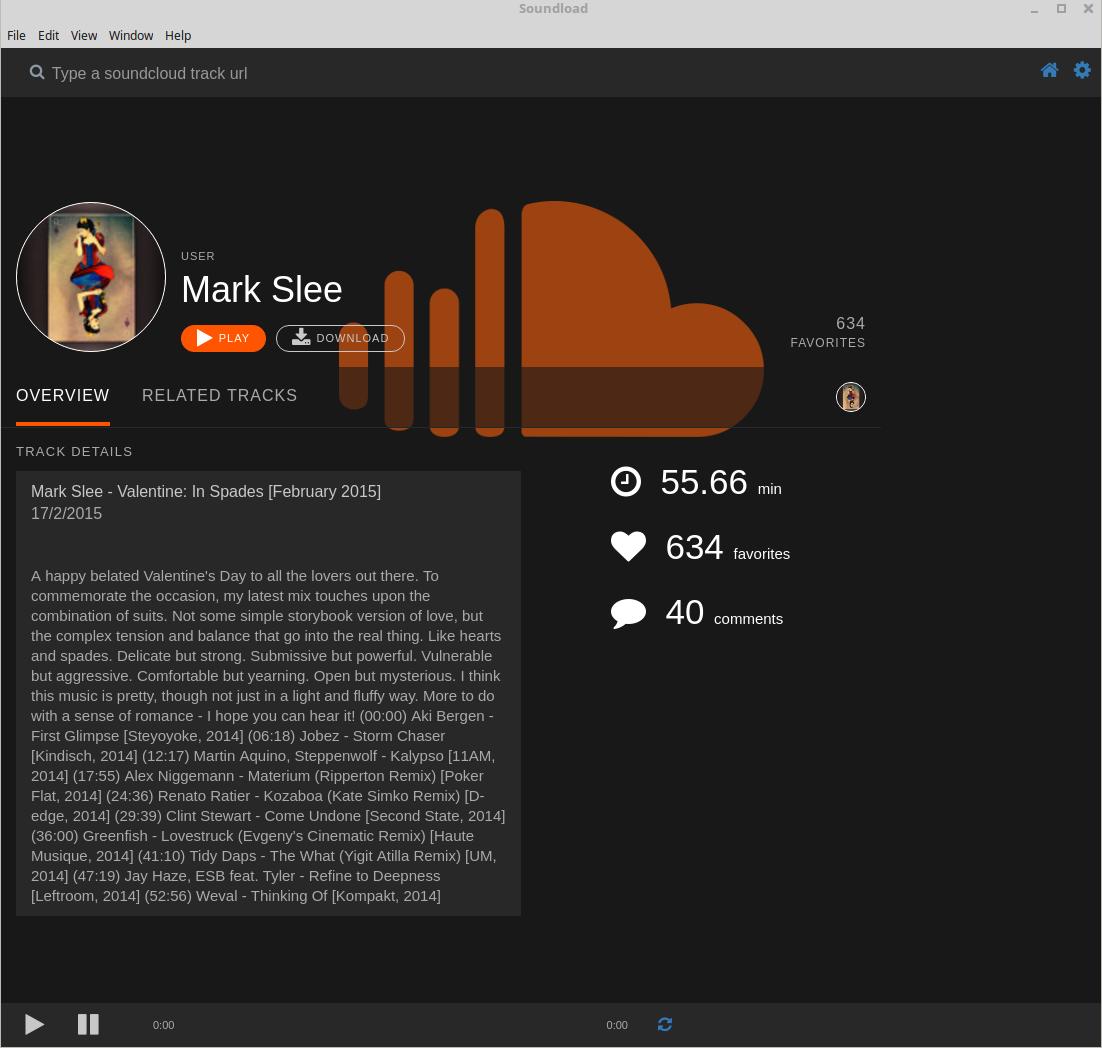
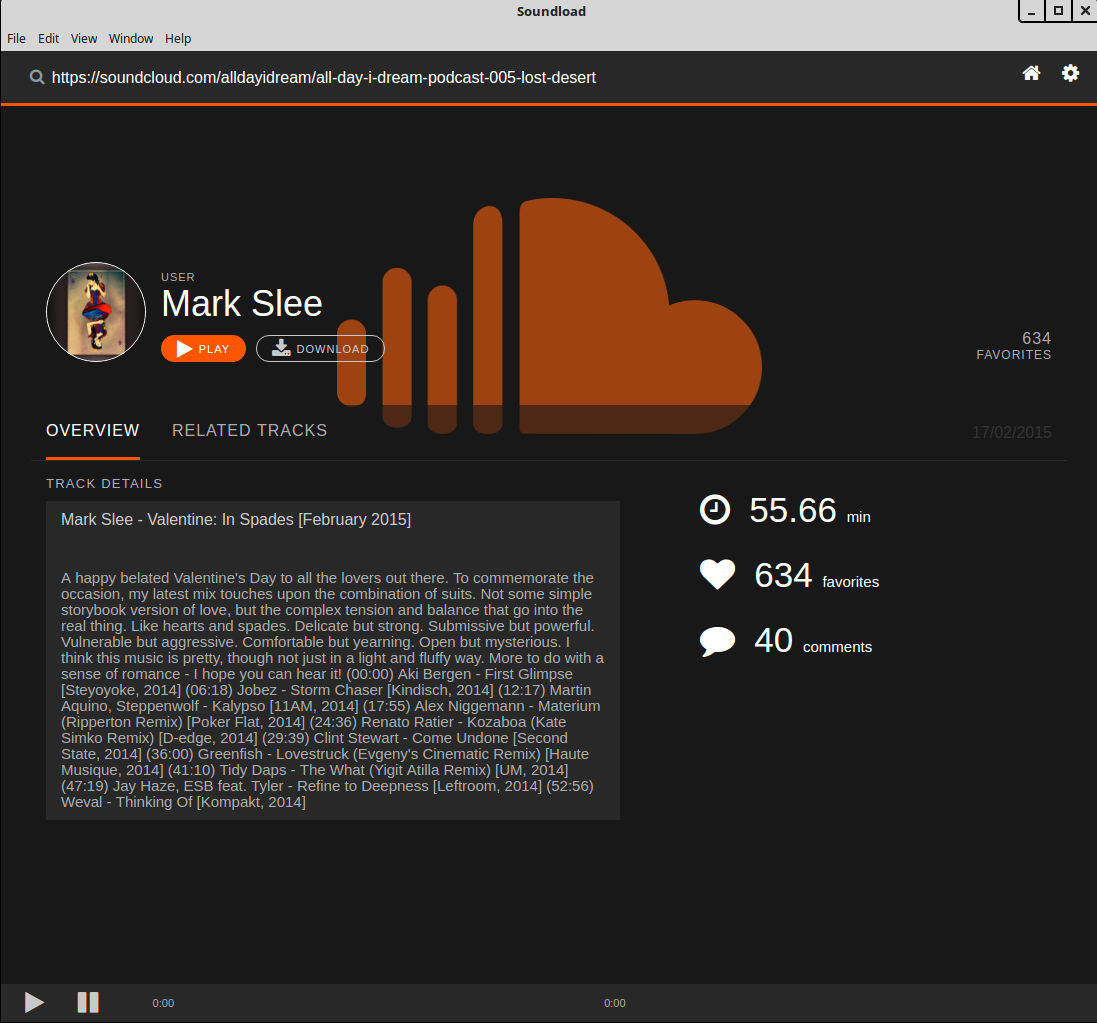
remove AppProgress from App move to Track - finalize, AppPlayer css fixes

diff --git a/renderer-process/components/content/Track.js b/renderer-process/components/content/Track.js
@@ -4,7 +4,7 @@
 
 'use strict';
 
-import {remote, ipcRenderer, clipboard} from 'electron';
+import {remote, ipcRenderer} from 'electron';
 import React from 'react';
 import AppProgress from '../common/AppProgress';
 import Related from './Related';
@@ -12,18 +12,16 @@ import Related from './Related';
 export default class Track extends React.Component {
   constructor(props) {
     super(props);
+
+    this.state = {
+      percentage: 0,
+      show_loader: false
+    }
+
+    //bind methods
     this.parseDate = this.parseDate.bind(this);
     this.parseDuration = this.parseDuration.bind(this);
     this.download = this.download.bind(this);
-    ipcRenderer.on('download-file-error', function(event, error_message) {
-      console.error(error_message);
-    });
-    ipcRenderer.on('download-file-reply', function(event, tags) {
-      console.error(tags);
-    });
-    ipcRenderer.on('progress-file-reply', (event, percentage) => {
-      console.log(percentage);
-    });
   }
   componentDidMount() {}
   componentWillUnmount() {
@@ -37,13 +35,13 @@ export default class Track extends React.Component {
     ipcRenderer.send('download-file', title, id);
     return false;
   }
-  parseDate(per) {
+  parseDate() {
     let moment = require('moment');
     let track = this.props.track,
       created_at;
 
     created_at = track.created_at;
-    return moment(created_at).format(per.toUpperCase());
+    return moment(created_at).format('DD/MM/YYYY');
   }
   parseDuration() {
     let duration = this.props.track.duration / 1000; //get seconds
@@ -65,6 +63,9 @@ export default class Track extends React.Component {
     return (
       <div className="track page-content">
         <div className="track__header">
+          <div className="track__progress">
+            <AppProgress isVisible={this.state.show_loader}/>
+          </div>
           <div className="track__info">
             <div className="profile__img">
               <img src={track.artwork_url} alt={track.title}/>
@@ -77,7 +78,7 @@ export default class Track extends React.Component {
                   <i className="fa fa-play"></i>
                   Play
                 </button>
-                <button className="button-light" data-title={track.title} onClick={this.download}>
+                <button className="button-light" data-id={track.id} data-title={track.title} onClick={this.download}>
                   <i className="fa fa-download"></i>
                   Download
                 </button>
@@ -98,8 +99,7 @@ export default class Track extends React.Component {
               </li>
             </ul>
             <div className="track__navigation__friends">
-              <a href="#">
-                <img src={track.artwork_url} alt={track.title}/></a>
+              {this.parseDate()}
             </div>
           </div>
         </div>
@@ -112,11 +112,7 @@ export default class Track extends React.Component {
                   <div className="track-details">
                     <div className="track-details__song">
                       <div className="track-details__song__title">{track.title}</div>
-                      <div className="track-details__song__date">
-                        <span className="day">{this.parseDate('d')}/</span>
-                        <span className="month">{this.parseDate('m')}/</span>
-                        <span className="year">{this.parseDate('yyyy')}</span>
-                      </div>
+                      <div className="track-details__song__date"></div>
                       <hr/>
                       <div className="track-details__song__desc">{track.description}</div>
                     </div>

diff --git a/renderer-process/components/common/AppProgress.js b/renderer-process/components/common/AppProgress.js
@@ -1,18 +1,55 @@
+import {remote, ipcRenderer} from 'electron';
 import React from 'react';
 
 export default class AppProgress extends React.Component {
   constructor(props) {
     super(props);
+    this.state = {
+      is_visible: false,
+      percentage: 0
+    }
   }
-  render() {    
+  componentDidMount() {
+    //ipc events
+    ipcRenderer.on('download-file-error', (event, error_message) => {
+      console.error(error_message);
+    });
+    ipcRenderer.on('download-file-reply', (event) => {
+      setTimeout(()=>{
+        this.setState({
+          is_visible: false,
+          percentage: 0
+        });
+      }, 2000)
+    });
+    ipcRenderer.on('on-response-reply', (event) => {
+      this.setState((prevState) => {
+        return {
+          is_visible: true
+        }
+      })
+    })
+    ipcRenderer.on('progress-file-reply', (event, percentage) => {
+      this.setState((prevState, props) => {
+        return {
+          percentage: percentage
+        }
+      })
+    });
+  }
+  render() {
+    let is_visible = this.state.is_visible;
+
     return (
-      <div className="progress">
+      <div className={(is_visible)
+        ? 'progress show'
+        : 'progress hide'}>
         <div ref={(el) => {
           this.el = el;
         }} className="progress-bar" role="progressbar" aria-valuenow="0" aria-valuemin="0" aria-valuemax="100" style={{
-          width: `${this.props.percentage}%`
+          width: `${this.state.percentage}%`
         }}>
-          <span className="sr-only">{this.props.percentage}% Complete</span>
+          <span>{this.state.percentage}% Complete</span>
         </div>
       </div>
     )

diff --git a/assets/css/main.css b/assets/css/main.css
@@ -448,6 +448,12 @@ img {
   font-size: 36px;
 }
 
+.track__progress {
+  position: relative;
+  width: 100%;
+  height: 50px;
+}
+
 .current-track__progress {
   width: 70%;
   padding: 0 30px;
@@ -575,10 +581,6 @@ img {
   display: block;
 }
 
-.track {
-  height: 617px;
-}
-
 .track__header {
   height: 320px;
   border-bottom: 1px solid #282828;
@@ -621,8 +623,8 @@ img {
 }
 
 .track__header .track__info .profile__img img {
-  width: 150px;
-  height: 150px;
+  width: 100px;
+  height: 100px;
   border-radius: 50%;
 }
 
@@ -1382,14 +1384,14 @@ button:hover {
   border-radius: 3px;
   box-shadow: none;
   height: 8px;
+  width: 100%;
+  position: relative;
 }
 
 .progress {
-  height: 10px;
+  height: 20px;
   margin-bottom: 20px;
-  margin-top: 20px;
   overflow: hidden;
-  /*background-color: #fff;*/
   border-radius: 4px;
   -webkit-box-shadow: inset 0 1px 2px rgba(0, 0, 0, .1);
   box-shadow: inset 0 1px 2px rgba(0, 0, 0, .1);

diff --git a/renderer-process/components/common/AppPlayer.js b/renderer-process/components/common/AppPlayer.js
@@ -22,19 +22,7 @@ export default class AppPlayer extends React.Component {
         </div>
         <div className="current-track__options">
           <span className="controls">
-            <a href="#" className="control">
-              <i className="fa fa-refresh"></i>
-            </a>
-            <a href="#" className="control volume">
-              <i className="ion-volume-high"></i>
-              <div id="song-volume" className="noUi-target noUi-ltr noUi-horizontal noUi-background">
-                <div className="noUi-base">
-                  <div className="noUi-origin noUi-stacking" style={{left: '90%'}}>
-                    <div className="noUi-handle noUi-handle-lower"></div>
-                  </div>
-                </div>
-              </div>
-            </a>
+            
           </span>
         </div>
       </section>

diff --git a/main-process/soundcloud.js b/main-process/soundcloud.js
@@ -62,7 +62,7 @@ const Soundcloud = function() {
           event.sender.send('progress-file-reply', progress);
         })
         .on('end', () => {
-          event.sender.send('download-file-reply', tags);
+          event.sender.send('download-file-reply');
         })
         .on('error', (err) => {
           console.log(err);
@@ -94,7 +94,7 @@ const Soundcloud = function() {
             break;
         }
         if (error) {
-          this.abort();
+          r.abort();
           event.sender.send('download-file-error', error);
         }
       })

diff --git a/renderer-process/components/App.js b/renderer-process/components/App.js
@@ -94,7 +94,7 @@ class App extends React.Component {
   render() {
     return (
       <div className="app-content">
-        <AppLoader isVisible={this.state.show_loader}/>
+        <AppLoader />
         <AppMessage isVisible={this.state.show_message} message={this.state.app_message}/>
         <Header resolve={this.resolve} showSettings={this.showSettings}/>
         <Main track={this.state.active_track}/>
